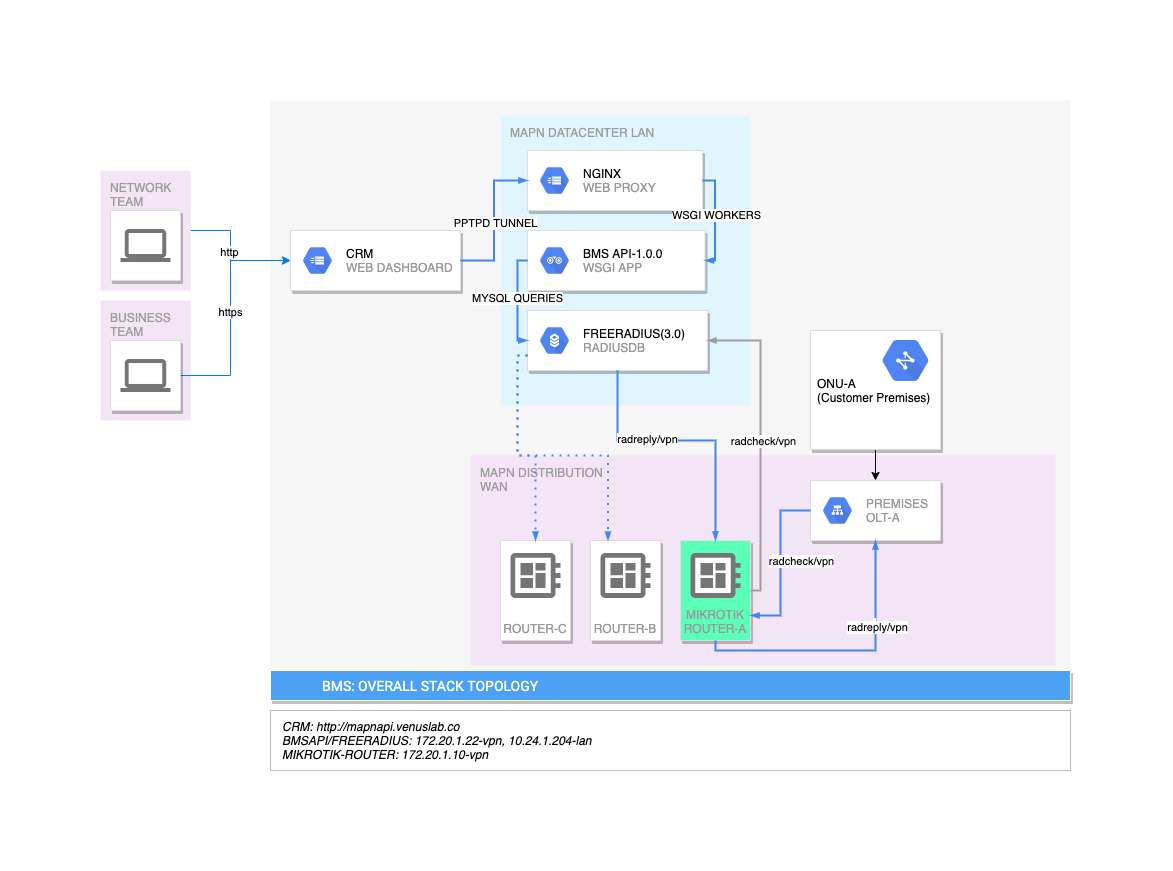
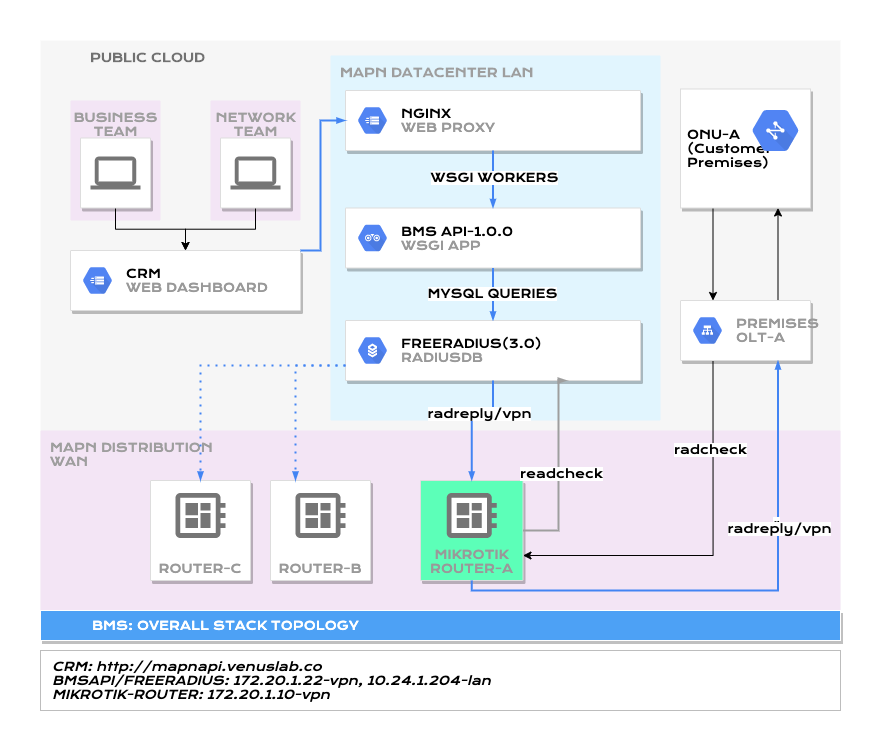
[add] added a flowchart regarding with crm2bms2radius

diff --git a/README.md b/README.md
@@ -4,6 +4,9 @@ This API service will provide a facility for frontend BMS to call when they want
 ## TOPOLOGY
 ![BMS TOPOLOGY](assets/topology.png?raw=true "BMS TOPOLOGY")
 
+## FLOWCHARTS
+![CRM-TO-BMS-TO-RADIUS](assets/flow_chart_crm2bms2radius.png?raw=true "BMS FLOWCHART")
+
 ## Getting Started
 
 To get started developing/testing this software service, you may need the
